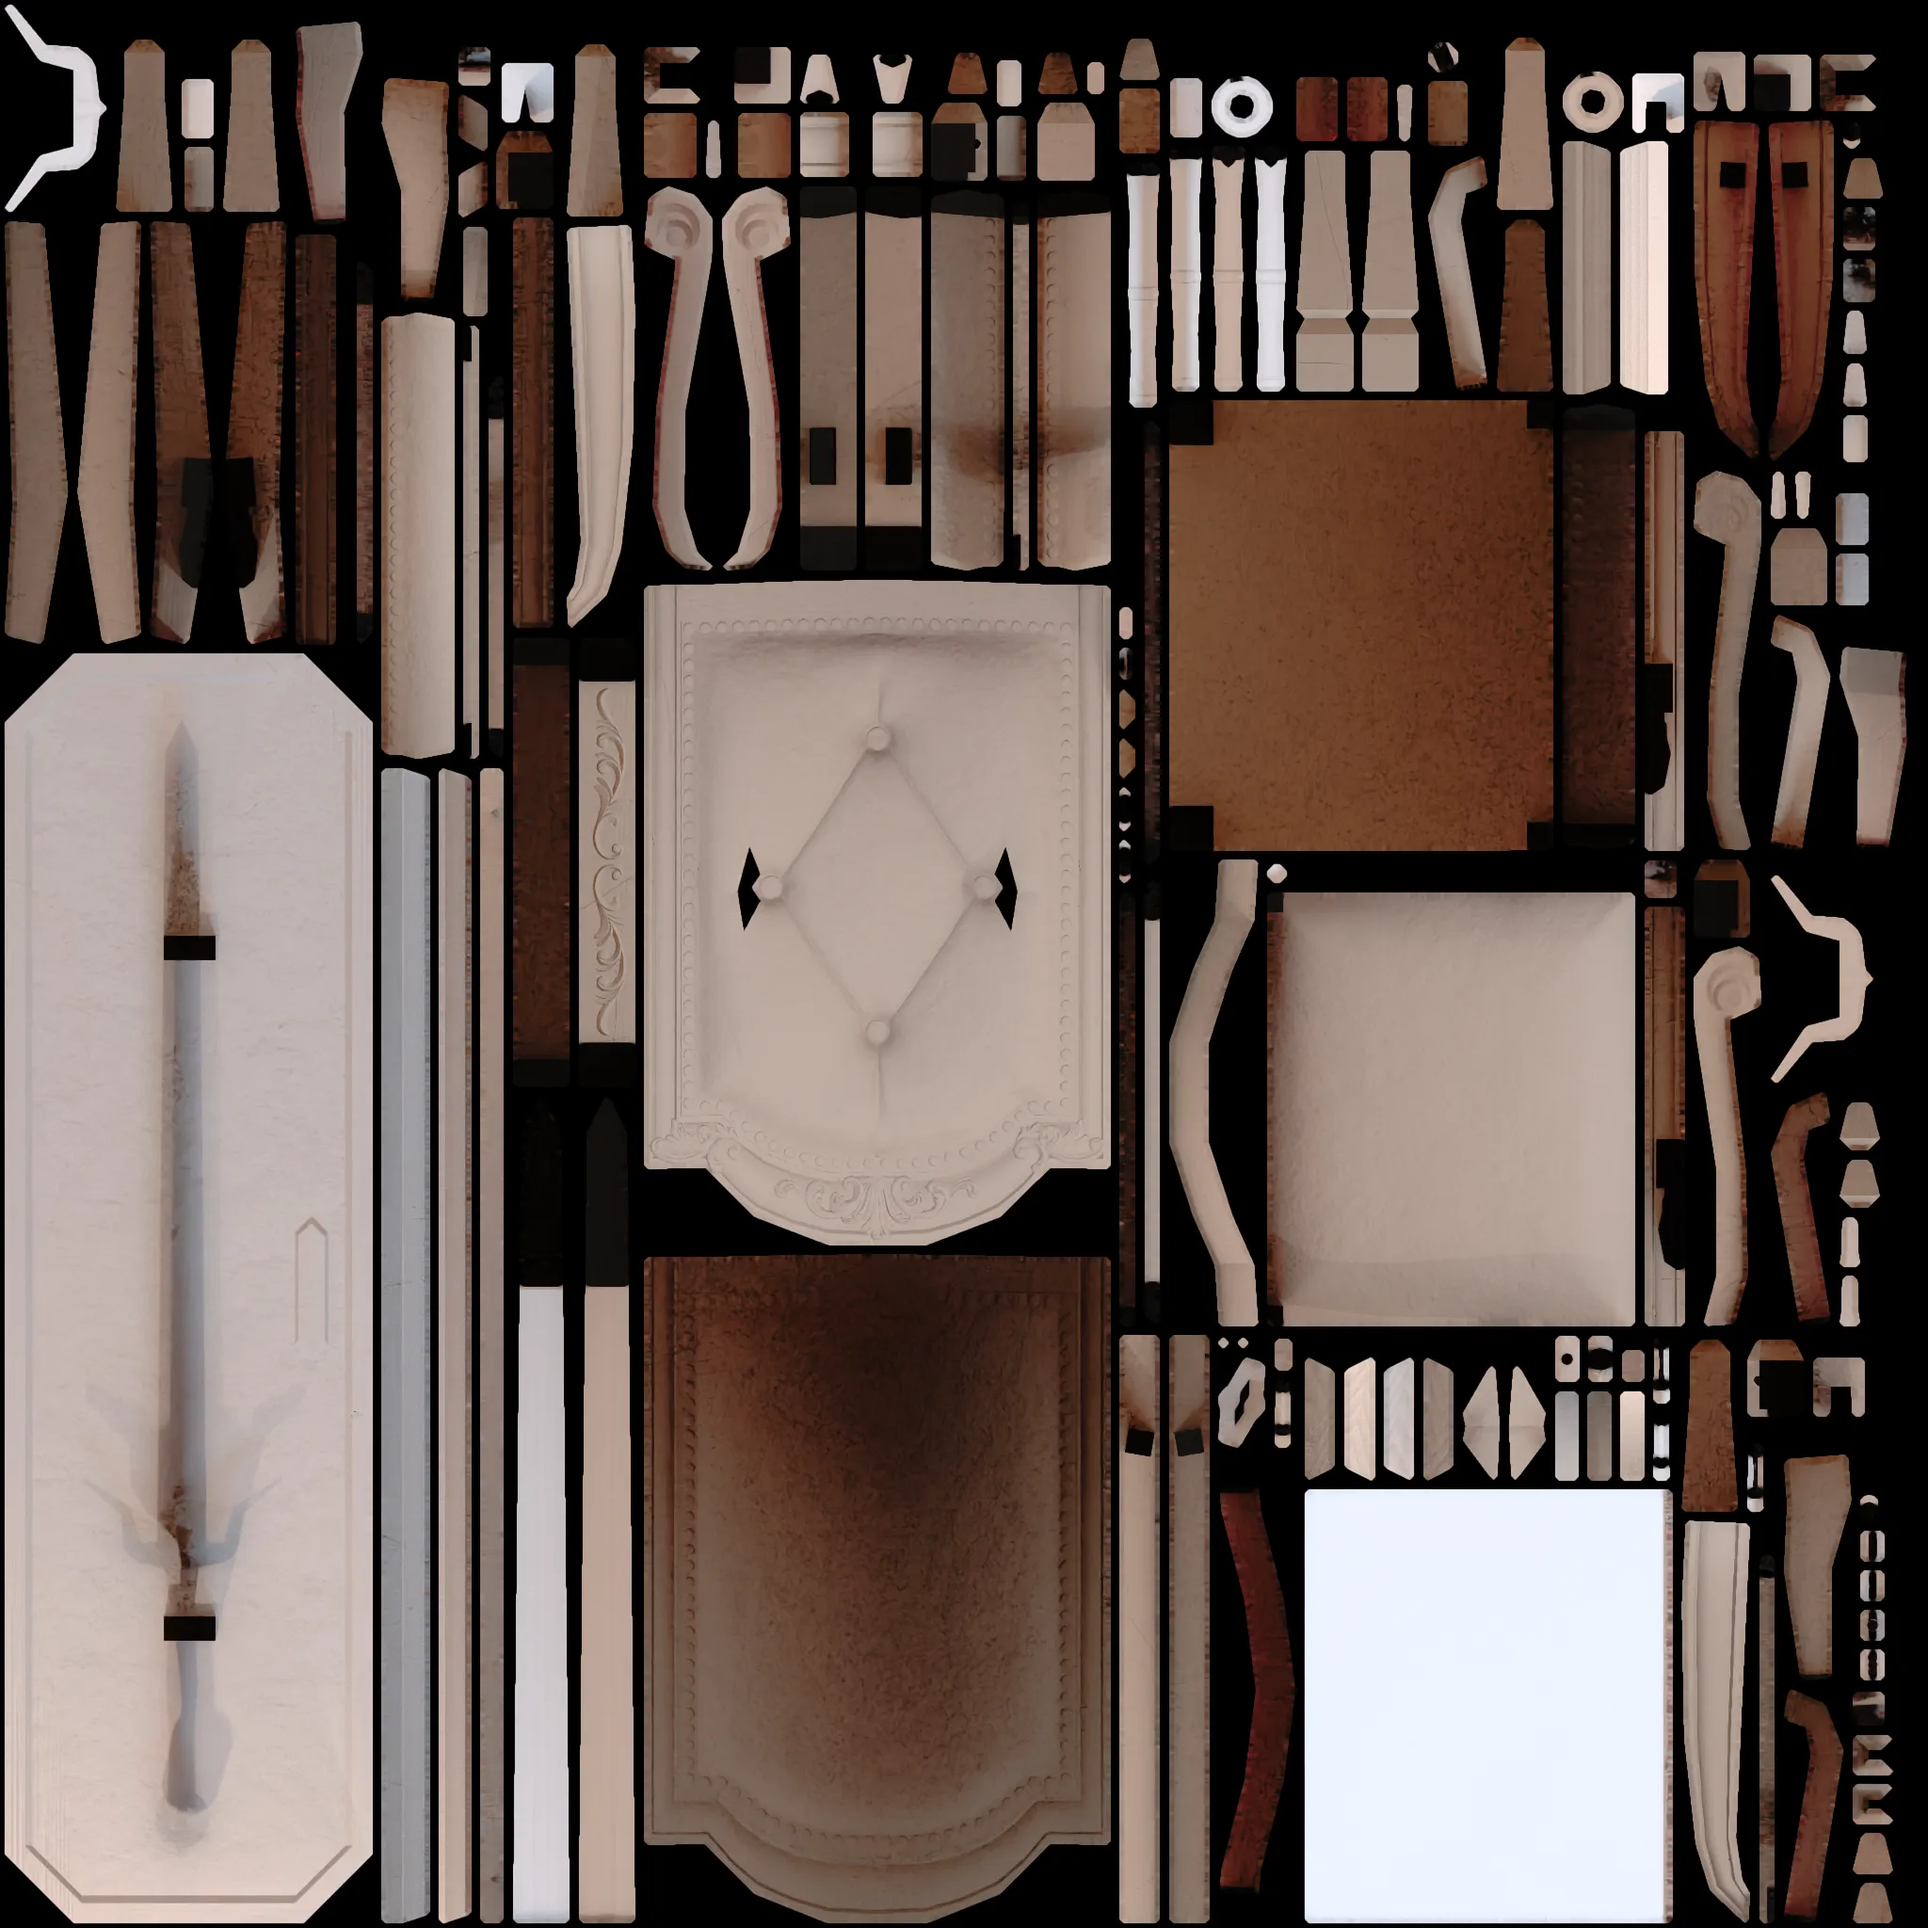
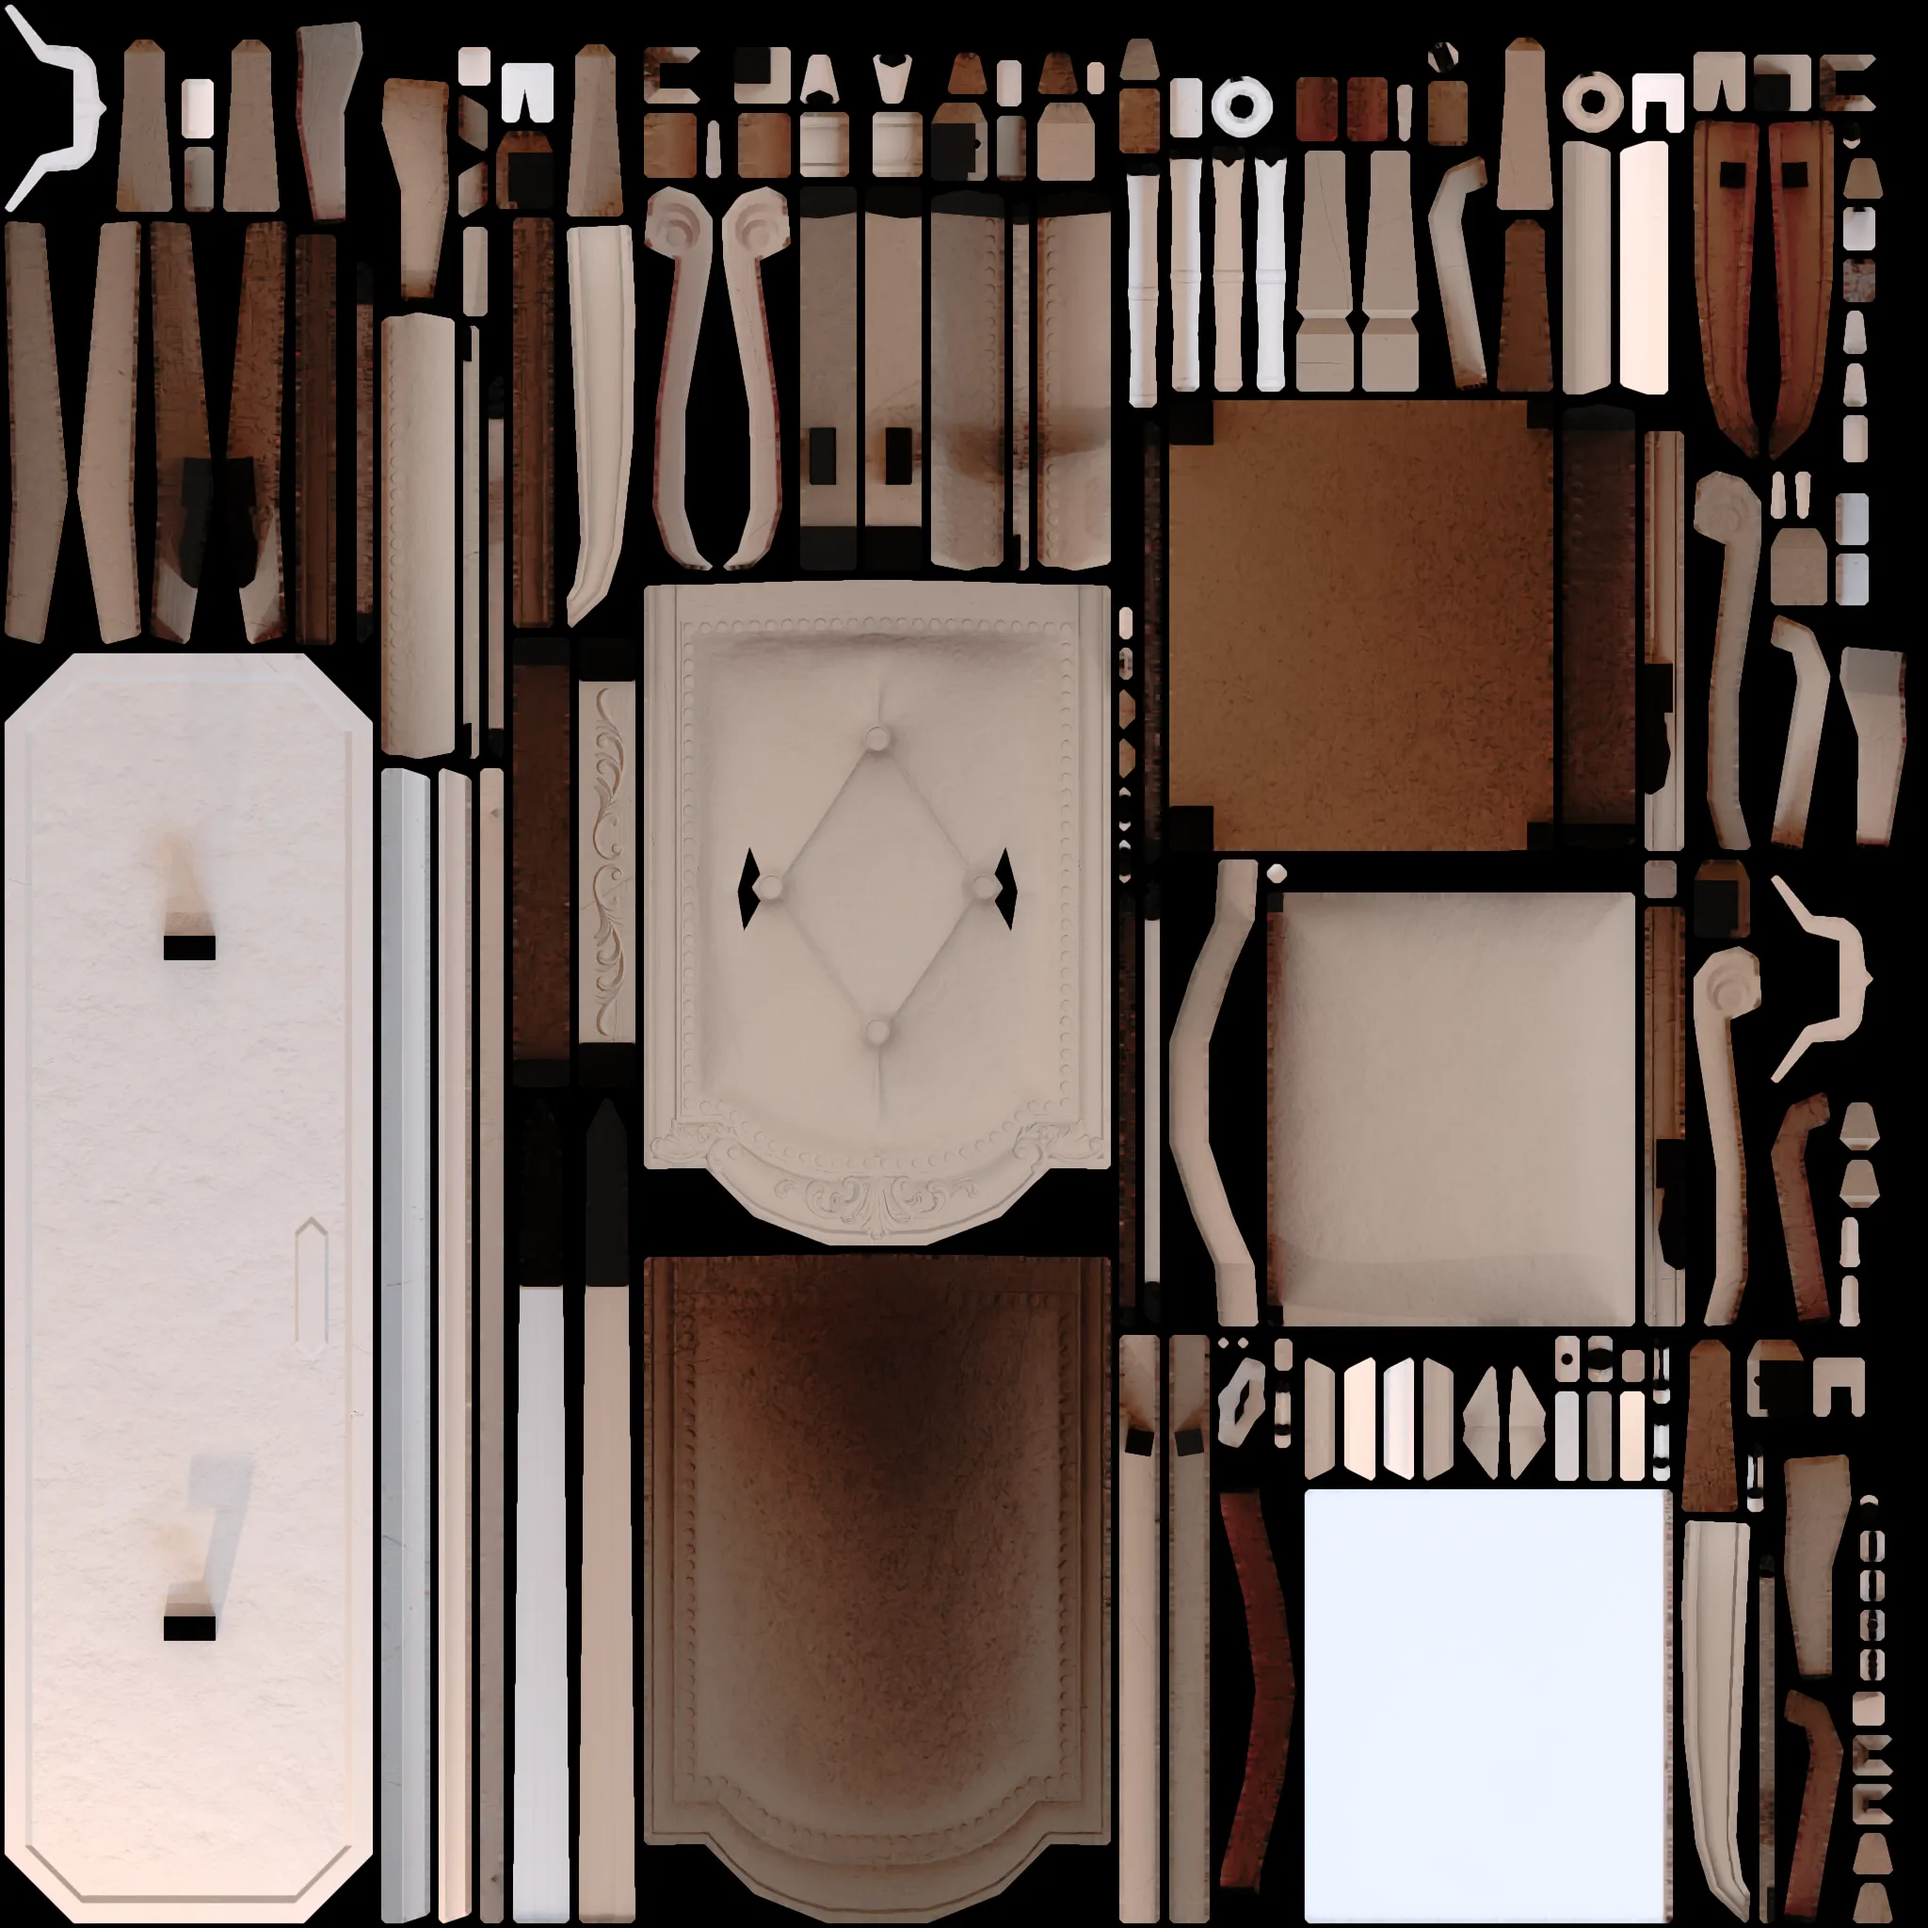
Add missing lightmap texture and fix bake

diff --git a/src/settings/assets.ts b/src/settings/assets.ts
@@ -10,6 +10,7 @@ import lightmap07HighTextureUrl from '../assets/lm_07_0001_rgbd_high.webp?url';
 import lightmap08HighTextureUrl from '../assets/lm_08_0001_rgbd_high.webp?url';
 import lightmap09HighTextureUrl from '../assets/lm_09_0001_rgbd_high.webp?url';
 import lightmap10HighTextureUrl from '../assets/lm_10_0001_rgbd_high.webp?url';
+import lightmap11HighTextureUrl from '../assets/lm_11_0001_rgbd_high.webp?url';
 import lightmap01LowTextureUrl from '../assets/lm_01_0001_rgbd_low.webp?url';
 import lightmap02LowTextureUrl from '../assets/lm_02_0001_rgbd_low.webp?url';
 import lightmap03LowTextureUrl from '../assets/lm_03_0001_rgbd_low.webp?url';
@@ -20,6 +21,7 @@ import lightmap07LowTextureUrl from '../assets/lm_07_0001_rgbd_low.webp?url';
 import lightmap08LowTextureUrl from '../assets/lm_08_0001_rgbd_low.webp?url';
 import lightmap09LowTextureUrl from '../assets/lm_09_0001_rgbd_low.webp?url';
 import lightmap10LowTextureUrl from '../assets/lm_10_0001_rgbd_low.webp?url';
+import lightmap11LowTextureUrl from '../assets/lm_11_0001_rgbd_low.webp?url';
 import environmentOutdoorTextureUrl from '../assets/environment_outdoor.env?url';
 import environmentMirrorTextureUrl from '../assets/environment_mirror.env?url';
 import particleDustTextureUrl from '../assets/particle_dust.webp?url';
@@ -89,6 +91,11 @@ export const assetConfigs: AssetConfigs = [
     type: 'texture',
     name: 'lightmap_10_texture',
     url: qualityMode ? lightmap10HighTextureUrl : lightmap10LowTextureUrl,
+  },
+  {
+    type: 'texture',
+    name: 'lightmap_11_texture',
+    url: qualityMode ? lightmap11HighTextureUrl : lightmap11LowTextureUrl,
   },
   {
     type: 'cubeTexture',

diff --git a/src/settings/textures.ts b/src/settings/textures.ts
@@ -68,6 +68,11 @@ export const textureConfigs: TextureConfigs = [
     animation: roomLightmapAnimation,
   },
   {
+    name: 'lightmap_11_texture',
+    originalName: getTextureName('lightmap_11_texture'),
+    animation: roomLightmapAnimation,
+  },
+  {
     name: 'environment_outdoor_texture',
     originalName: getTextureName('environment_outdoor_texture'),
   },
